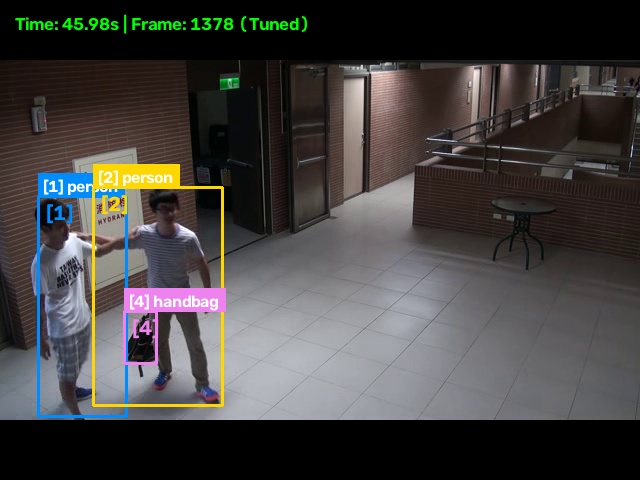
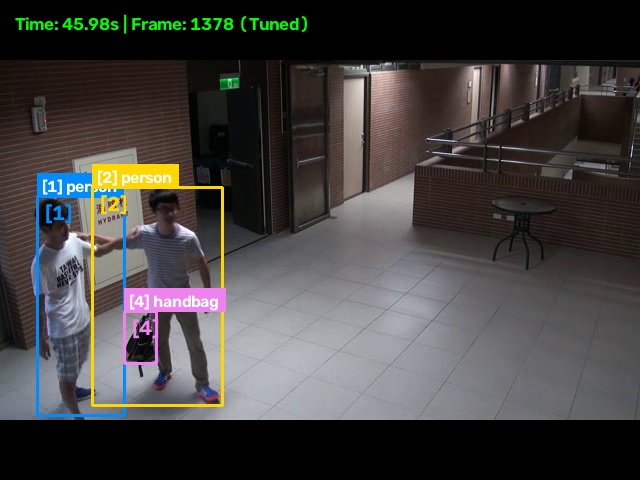
fix: resolve ID association using IoU match_thresh tuning and decoupled model inference

Changed region(s): [[0.0312, 0.3438, 0.2812, 0.875]]

diff --git a/generate_abandoned_prompt_tuned.py b/generate_abandoned_prompt_tuned.py
@@ -6,7 +6,7 @@ from collections import Counter
 from ultralytics import YOLO
 
 # 1. Paths & Configurations
-base_dir = r"C:\AIThucChien\VinFast Internship"
+base_dir = os.path.dirname(os.path.abspath(__file__))
 video_path = os.path.join(base_dir, "data", "video1.avi")
 output_video_path = os.path.join(base_dir, "data", "annotated_clip_abandoned_tuned.mp4")
 vlm_frames_dir = os.path.join(base_dir, "data", "vlm_input_frames_abandoned_tuned")
@@ -22,7 +22,7 @@ END_SEC = 52.0
 NUM_VLM_FRAMES = 8
 
 cap = cv2.VideoCapture(video_path)
-fps = cap.get(cv2.CAP_PROP_FPS)
+fps = cap.get(cv2.CAP_PROP_FPS) or 30.0
 width = int(cap.get(cv2.CAP_PROP_FRAME_WIDTH))
 height = int(cap.get(cv2.CAP_PROP_FRAME_HEIGHT))
 total_frames = int(cap.get(cv2.CAP_PROP_FRAME_COUNT))
@@ -34,9 +34,12 @@ clip_frame_count = end_frame - start_frame
 print(f"Original Video: {total_frames} frames, {fps:.2f} FPS")
 print(f"Clipping segment: {START_SEC}s - {END_SEC}s (frames {start_frame} to {end_frame}, total {clip_frame_count} frames)")
 
-# 3. Initialize YOLO Tracking Model
-print("Loading YOLO model...")
-model = YOLO(os.path.join(base_dir, "yolo11n.pt"))
+# 3. Initialize YOLO Models
+# Separate instances: person_model maintains persistent ByteTrack predictor state;
+# bag_model performs independent detection without resetting person_model predictor.
+print("Loading YOLO models...")
+person_model = YOLO(os.path.join(base_dir, "yolo11n.pt"))
+bag_model = YOLO(os.path.join(base_dir, "yolo11n.pt"))
 
 COLOR_PALETTE = [
     (0, 0, 255),     # 0: Red
@@ -74,18 +77,18 @@ while frame_idx < end_frame:
     if not ret:
         break
 
-    # Track persons dynamically using ByteTrack
-    results = model.track(
+    # Track persons dynamically using ByteTrack with custom IoU match_thresh
+    results = person_model.track(
         frame,
         persist=True,
-        tracker="bytetrack.yaml",
+        tracker=os.path.join(base_dir, "custom_bytetrack.yaml"),
         classes=[0],  # Track persons with ByteTrack
         conf=0.25,
         verbose=False
     )
 
-    # Detect bag candidates with sensitivity conf=0.15
-    bag_res = model.predict(frame, conf=0.15, classes=[24, 26, 28], verbose=False)
+    # Detect bag candidates with sensitivity conf=0.15 using separate detector
+    bag_res = bag_model.predict(frame, conf=0.15, classes=[24, 26, 28], verbose=False)
     
     annotated_frame = frame.copy()
 
@@ -96,8 +99,12 @@ while frame_idx < end_frame:
         class_ids = results[0].boxes.cls.cpu().numpy().astype(int)
 
         for box, tid, cid in zip(boxes, track_ids, class_ids):
+            # Reserve ID [4] for stationary handbag; discard spurious transient track
+            if tid == STATIONARY_BAG_ID:
+                continue
+
             x1, y1, x2, y2 = box
-            class_name = model.names[cid]
+            class_name = person_model.names[cid]
             mark_id = f"[{tid}]"
             tracked_entities[mark_id] = class_name
             color = COLOR_PALETTE[tid % len(COLOR_PALETTE)]
@@ -116,7 +123,7 @@ while frame_idx < end_frame:
             cv2.putText(annotated_frame, mark_id, (x1 + 8, y1 + 24), font, 0.7, color, 2, cv2.LINE_AA)
 
     # 2. Draw Persistent Stationary Bag [4] handbag
-    # Find best bag detection in floor region [100-220, 280-420]
+    # Find best bag detection in floor region [100-230, 280-430]
     best_box = None
     best_conf = 0.0
     if len(bag_res) > 0 and len(bag_res[0].boxes) > 0:
@@ -202,8 +209,9 @@ prompt_payload = {
         "sampled_frames_count": NUM_VLM_FRAMES,
         "tuning_features": [
             "Spatial Anchor Persistence: Bag retains persistent ID [4] across occlusions",
-            "Temporal Majority Voting: Consistent class label 'handbag' from 60 VinFast taxonomy",
-            "Continuous Boundary Box: Object remains bounded and marked through final frame"
+            "Temporal Majority Voting: Consistent class label 'handbag' from standard 60-object taxonomy",
+            "Continuous Boundary Box: Object remains bounded and marked through final frame",
+            "IoU Match Threshold Tuning: Separates exiting Person [2] from entering passerby Person [3]"
         ]
     },
     "detected_entities_in_scene": [
@@ -242,7 +250,7 @@ prompt_payload = {
     "abandoned_event_summary": {
         "abandoned_entity": f"[{STATIONARY_BAG_ID}] {STATIONARY_BAG_CLASS}",
         "initial_state": "Stationary on floor at (x~147, y~338)",
-        "final_state": "Abandoned - Both person [1] and [2] walked out of scene, bag remains unattended"
+        "final_state": "Abandoned - Both person [1] and [2] walked out of scene, bag remains unattended. Person [3] enters scene as passerby without interacting with bag."
     }
 }
 

diff --git a/test_vlm_client.py b/test_vlm_client.py
@@ -46,7 +46,7 @@ def get_mock_triplets(payload_name):
 
 def main():
     args = parse_args()
-    base_dir = r"C:\AIThucChien\VinFast Internship"
+    base_dir = os.path.dirname(os.path.abspath(__file__))
     payload_file = os.path.join(base_dir, args.payload) if not os.path.isabs(args.payload) else args.payload
 
     if not os.path.exists(payload_file):
@@ -54,7 +54,7 @@ def main():
         sys.exit(1)
 
     print("=" * 60)
-    print("VINFAST COMPUTER VISION CENTER - VLM INFERENCE CLIENT")
+    print("COMPUTER VISION CENTER - VLM INFERENCE CLIENT")
     print("=" * 60)
     print(f"Loading payload from: {payload_file}")
 
@@ -150,7 +150,7 @@ def main():
             triplets = get_mock_triplets(args.payload)
     else:
         print("\n[MOCK MODE] Simulating Qwen2-VL-2B inference on Set-of-Marks prompt...")
-        print("(Pass --server-url <IP:PORT> to connect to real VinFast server)")
+        print("(Pass --server-url <IP:PORT> to connect to real server)")
         triplets = get_mock_triplets(args.payload)
 
     # Validate output triplets
@@ -173,7 +173,7 @@ def main():
 
     print("-" * 60)
     if all_valid:
-        print("[CHECK PASSED] All predicted relations strictly adhere to VinFast 26 taxonomy!")
+        print("[CHECK PASSED] All predicted relations strictly adhere to standard 26 taxonomy!")
     else:
         print("[CHECK WARNING] Some relations fall outside the 26 allowed vocabulary.")
 
